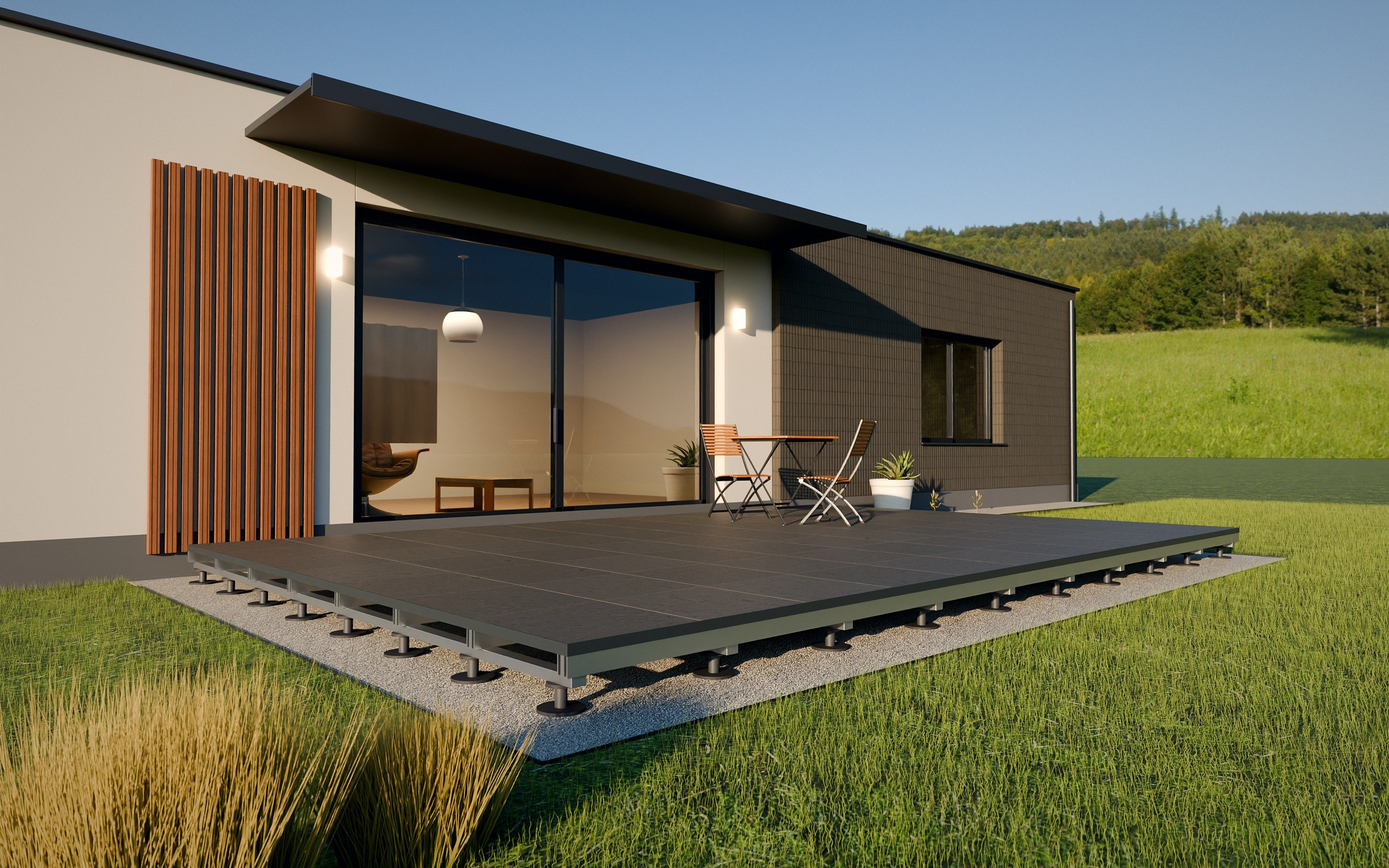
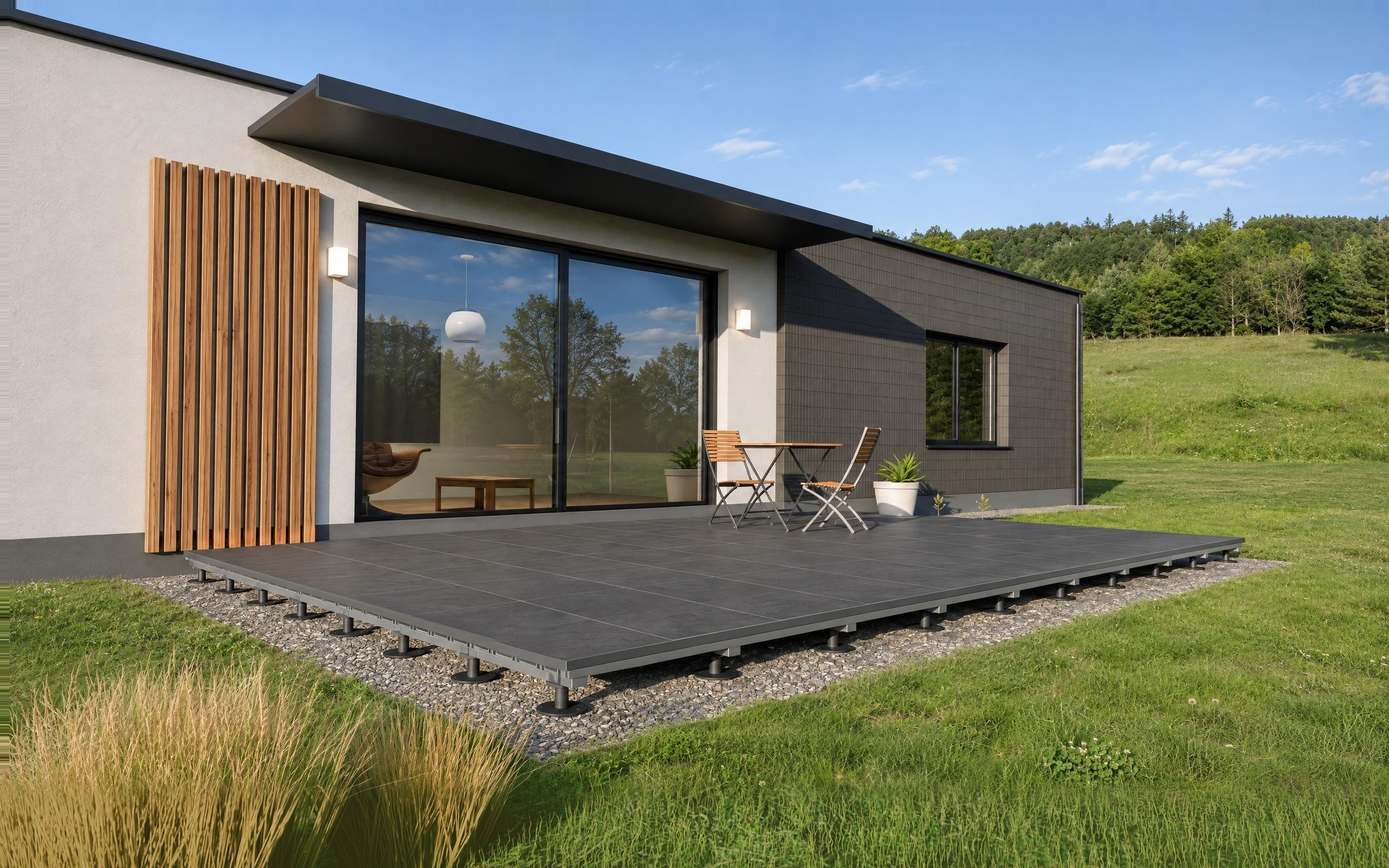
Hero: alle vier Beläge im Foto-Look, Umfeld identisch
Claude-Session: https://claude.ai/code/session_014Z1VBeyTbHZt6iQxQQMmjf

diff --git a/index.html b/index.html
@@ -1182,7 +1182,7 @@ function loadTex(url, srgb = true) {
 }
 // hero_wa_d → Kamera „hero“; xr_1 → „xr“; cfg_sh_n → „cfg“
 const camOf = key => key.split('_')[0];
-const srcOf = key => `img/r/${key}.jpg${key === 'hero_wa_d' ? '?v=2' : ''}`;
+const srcOf = key => `img/r/${key}.jpg${/^hero_\w+_d$/.test(key) ? '?v=2' : ''}`;
 const depthOf = key => `img/r/z_${/^xr_/.test(key) ? key : camOf(key)}.jpg`;
 const shotReady = {}, shotData = {};
 function loadShot(key) {
